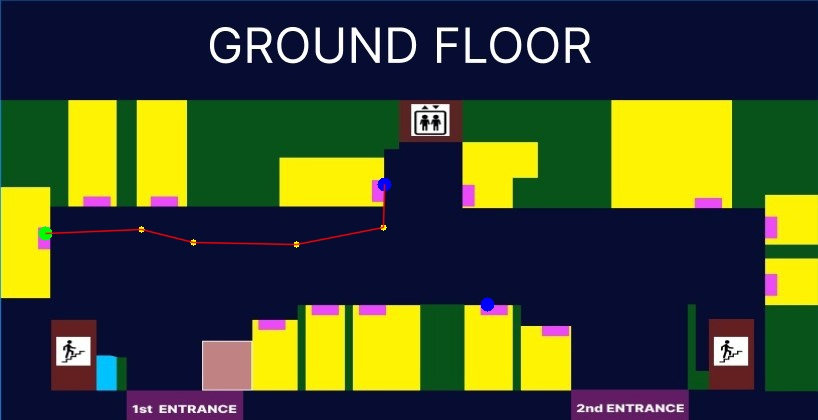
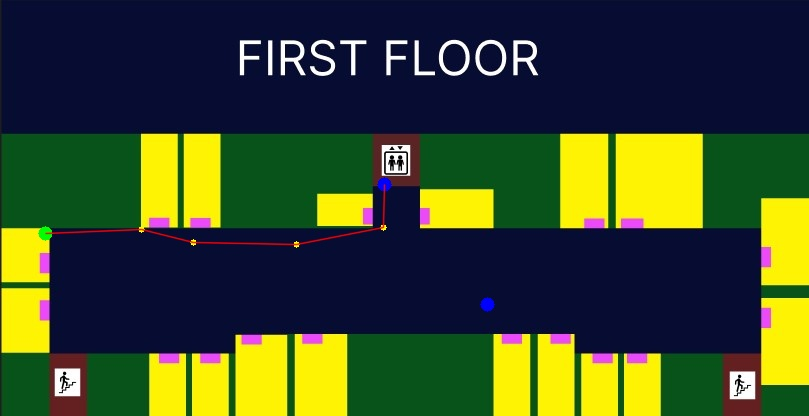
final commit

diff --git a/templates/home.html b/templates/home.html
@@ -7,12 +7,19 @@
 <div class="container">
     <div class="title">Let's Find and Move</div>
     <div class="subtitle">Find your way indoors</div>
-    <div class="button-container">
-        <a href="front1.html" class="view-floors">View Floors</a>
-    </div>
     <form action="{% url "preview" %}" method="get" >
+    <div class="button-container">
+        <label for="floor1" style="color:white;">Floor One</label>
+        <input type="radio" name="floor" id="floor1" value="0">
+        <label for="floor2"  style="color:white;">Floor Two</label>
+       <input type="radio" name="floor" id="floor2" value="1">
+    </div>
     <div class="input-container">       
 
+        <div class="flex">
+            
+     
+        </div>
 
          <input type="text" autocomplete="off" name = "start_node_name" id="currentLocationInput" placeholder="Current location">
         <div class="dropdown" id="currentLocationDropdown">
@@ -33,5 +40,72 @@
 
 </div>
 {% endblock content %}
+
+{% block scripts %}
+
+<script>
+    document.getElementById('searchButton').addEventListener('click', function() {
+        console.log("Clicked")
+        this.style.transform = 'scale(0.9)'; // Scale down the button when clicked
+        setTimeout(() => {
+            this.style.transform = 'scale(1)'; // Reset button scale after a brief delay
+        }, 300);
+    });
+
+    function setupDropdown(input, dropdown) {
+    input.addEventListener('input', function() {
+        // Show dropdown when user starts typing
+        dropdown.style.display = 'block';
+
+        // Simulate fetching data from server or somewhere else
+        const locations = ['Library', 'Stairs near Library', 'Smart Class', 'Boys common room', 'Tutorial room', 'Pantry',
+        'Professor room', 'Mini hall', 'First aid room', 'Lift1', 'Gents Toilet', 'Class 205', 'Stationary store',
+        'Staff room', 'Tutorial room1', 'Lab House keeping', 'Kitchen', 'Classroom', 'Restaurant', 'Stairs near restaurant','Laboratory', 'Reprographic center', 'Lab-205', 'Office', 'Ground-floorLift', 'System Administrator',
+              'Project lab', 'Language lab', 'Class room', 'Stairs near PG lab', 'Conference room', 'Office',
+              'Meeting room', 'Principal-Conference room', 'Principal office',
+              'Reception', 'Drinking water', 'Stairs opp to documentation','Main Entrance','Entrance-2']; // Example data
+
+        // Get input value
+        const inputText = input.value.toLowerCase();
+
+        // Filter locations based on input text
+        const filteredLocations = locations.filter(location =>
+            location.toLowerCase().includes(inputText)
+        );
+
+        // Sort filtered locations by similarity to input text
+        filteredLocations.sort((a, b) =>
+            a.toLowerCase().indexOf(inputText) - b.toLowerCase().indexOf(inputText)
+        );
+
+        // Clear existing dropdown items
+        dropdown.innerHTML = '';
+
+        // Create and append dropdown items
+        filteredLocations.forEach(function(location) {
+            const dropdownItem = document.createElement('div');
+            dropdownItem.classList.add('dropdown-item');
+            dropdownItem.textContent = location;
+            dropdownItem.addEventListener('click', function() {
+                input.value = location; // Set input value to clicked item
+                dropdown.style.display = 'none'; // Hide dropdown after selection
+            });
+            dropdown.appendChild(dropdownItem);
+        });
+    });
+
+    // Hide dropdown when clicking outside the input
+    document.addEventListener('click', function(event) {
+        if (!input.contains(event.target)) {
+            dropdown.style.display = 'none';
+        }
+    });
+}
+    setupDropdown(document.getElementById('currentLocationInput'), document.getElementById('currentLocationDropdown'));
+    setupDropdown(document.getElementById('destinationInput'), document.getElementById('destinationDropdown'));
+
+</script>
+
+{% endblock scripts %}
 
 

diff --git a/templates/base2.html b/templates/base2.html
@@ -60,10 +60,13 @@
         background-color: #f0f0f0;
     }
     .button-container {
-        margin-top: 20px;
+        margin-top: 40px;
         display: flex;
         justify-content: center;
         align-items: center;
+        {% comment %} flex-direction: column; {% endcomment %}
+        gap:40px;
+
     }
     .search-icon {
         width: 50px;

diff --git a/home/views.py b/home/views.py
@@ -96,7 +96,7 @@ def preview(request):
     if request.method == "GET":
         start_node_name = request.GET.get('start_node_name')
         end_node_name = request.GET.get('end_node_name')
-        floor = request.GET.get("floor","0")
+        floor = request.GET.get("floor")
     image_path = r'static\assets\image.jpg' if floor == "1" else r"static\assets\floor0.jpg" 
     node_coordinates = [(45, 233),      #A
                         (93, 195),      #B
